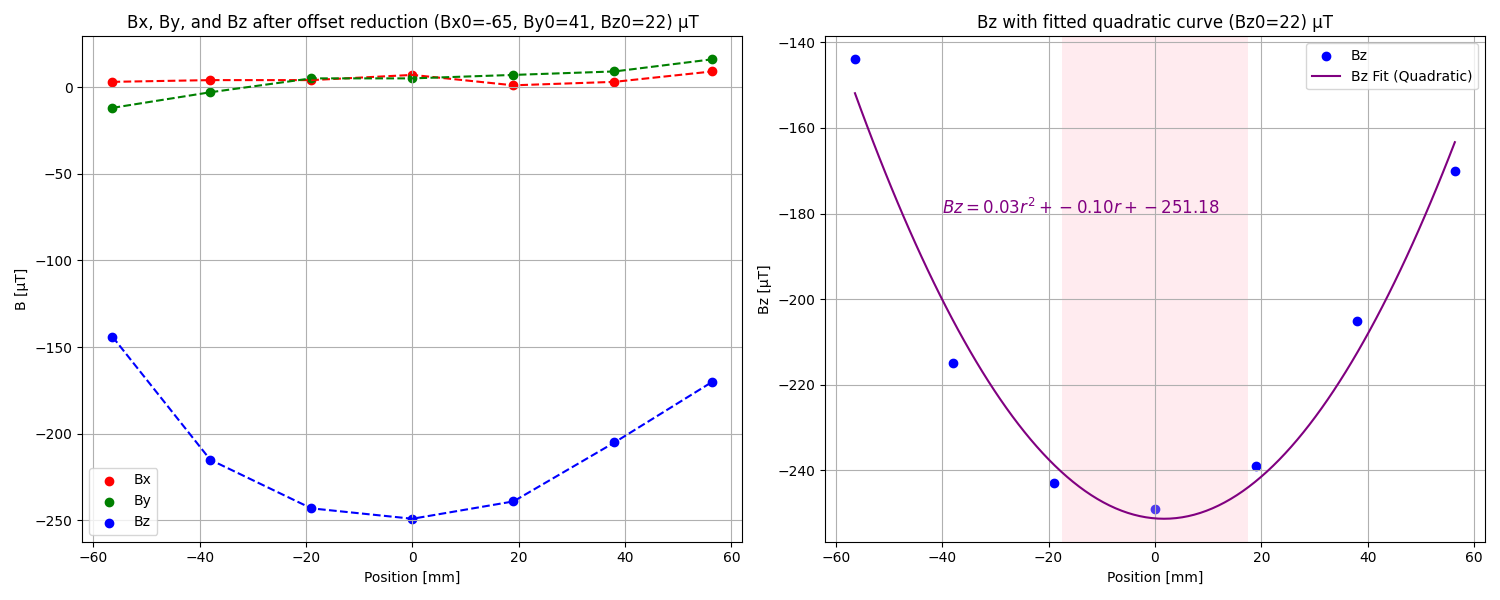
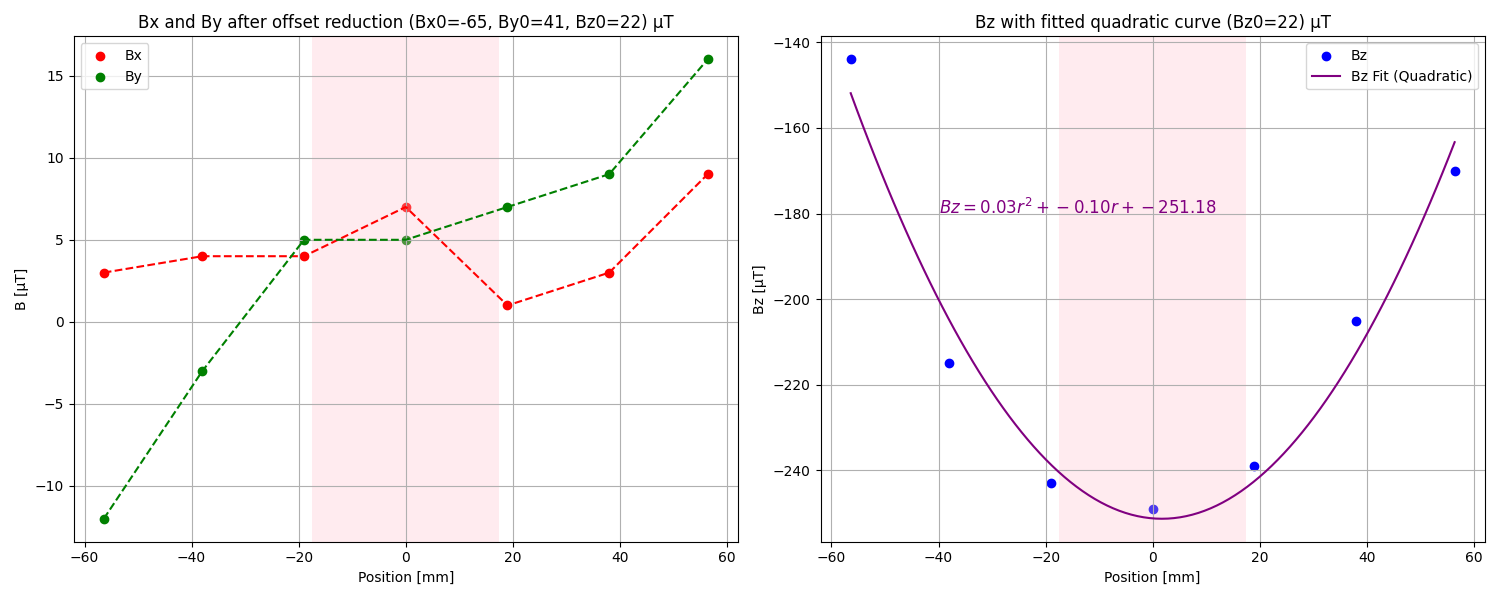
update

diff --git a/tempCodeRunnerFile.py b/tempCodeRunnerFile.py
@@ -1,3 +1,4 @@
+
 import numpy as np
 import matplotlib.pyplot as plt
 
@@ -31,34 +32,47 @@ r = np.array([-56.4, -38, -19, 0, 19, 38, 56.4])
 fit_coeffs = np.polyfit(r, Bz_values, deg=2)
 fit_function = np.poly1d(fit_coeffs)
 
-# Plot the adjusted Bx, By, Bz values with scatter plots and connecting lines
-plt.figure(figsize=(10, 6))
-plt.scatter(r, Bx_values, label='Bx', color='red')
-plt.plot(r, Bx_values, color='red', linestyle='--')
-plt.scatter(r, By_values, label='By', color='green')
-plt.plot(r, By_values, color='green', linestyle='--')
-plt.scatter(r, Bz_values, label='Bz', color='blue')
-plt.plot(r, Bz_values, color='blue', linestyle='--')
-
-# Plot the fitted function as a scatter plot
-plt.scatter(r, fit_function(r), label='Bz Fit', color='purple', marker='x')
-
-# Plot the fit function as a smooth curve
 # Generate more points for smoother curve
 r_fit = np.linspace(np.min(r), np.max(r), 100)
-plt.plot(r_fit, fit_function(r_fit), color='purple',
-         linestyle='-', label='Bz Fit ')
+fit_values = fit_function(r_fit)
 
-# Add the pink rectangle
-plt.axvspan(-35 / 2, 35 / 2, facecolor='pink', alpha=0.3)
+# Create the subplots, one for Bx, By, and Bz, and another for Bz with the quadratic fit
+fig, (ax1, ax2) = plt.subplots(1, 2, figsize=(15, 6))
 
-# Print the fit function as a text annotation inside the plot
+# Left plot: Bx, By, and Bz
+ax1.scatter(r, Bx_values, label='Bx', color='red')
+ax1.plot(r, Bx_values, color='red', linestyle='--')
+ax1.scatter(r, By_values, label='By', color='green')
+ax1.plot(r, By_values, color='green', linestyle='--')
+ax1.scatter(r, Bz_values, label='Bz', color='blue')
+ax1.plot(r, Bz_values, color='blue', linestyle='--')
+ax1.set_xlabel('Position [mm]')
+ax1.set_ylabel('B [µT]')
+ax1.set_title(
+    'Bx, By, and Bz after offset reduction (Bx0=-65, By0=41, Bz0=22) µT')
+ax1.legend()
+ax1.grid(True)
+
+# Right plot: Bz with the fitted quadratic curve
+ax2.scatter(r, Bz_values, label='Bz', color='blue')
+ax2.plot(r_fit, fit_values, color='purple',
+         linestyle='-', label='Bz Fit (Quadratic)')
+ax2.axvspan(-35 / 2, 35 / 2, facecolor='pink', alpha=0.3)
+ax2.set_xlabel('Position [mm]')
+ax2.set_ylabel('Bz [µT]')
+ax2.set_title('Bz with fitted quadratic curve (Bz0=22) µT')
+
+# Print the fit function as a text annotation inside the right plot
 equation_text = f'$Bz = {fit_coeffs[0]:.2f}r^2 + {fit_coeffs[1]:.2f}r + {fit_coeffs[2]:.2f}$'
-plt.text(-40, -180, equation_text, fontsize=12, color='purple')
+ax2.text(-40, -180, equation_text, fontsize=12, color='purple')
 
-plt.xlabel('Position [mm]')
-plt.ylabel('Bi [µT]')
-plt.title('Bi after offset reduction (Bx0=-65, By0=41, Bz0=22) µT')
-plt.legend()
-plt.grid(True)
+ax2.legend()
+ax2.grid(True)
+
+plt.tight_layout()
+
+# Save the figure to a file (e.g., "output_plot.png")
+plt.savefig("output_plot.png")
+
+# Show the plot on the screen
 plt.show()

diff --git a/CoilOldMFMeasurment.py b/CoilOldMFMeasurment.py
@@ -47,13 +47,14 @@ ax1.scatter(r, Bx_values, label='Bx', color='red')
 ax1.plot(r, Bx_values, color='red', linestyle='--')
 ax1.scatter(r, By_values, label='By', color='green')
 ax1.plot(r, By_values, color='green', linestyle='--')
-ax1.scatter(r, Bz_values, label='Bz', color='blue')
-ax1.plot(r, Bz_values, color='blue', linestyle='--')
+# ax1.scatter(r, Bz_values, label='Bz', color='blue')
+# ax1.plot(r, Bz_values, color='blue', linestyle='--')
 ax1.set_xlabel('Position [mm]')
 ax1.set_ylabel('B [µT]')
 ax1.set_title(
-    'Bx, By, and Bz after offset reduction (Bx0=-65, By0=41, Bz0=22) µT')
+    'Bx and By after offset reduction (Bx0=-65, By0=41, Bz0=22) µT')
 ax1.legend()
+ax1.axvspan(-35 / 2, 35 / 2, facecolor='pink', alpha=0.3)
 ax1.grid(True)
 
 # Right plot: Bz with the fitted quadratic curve
